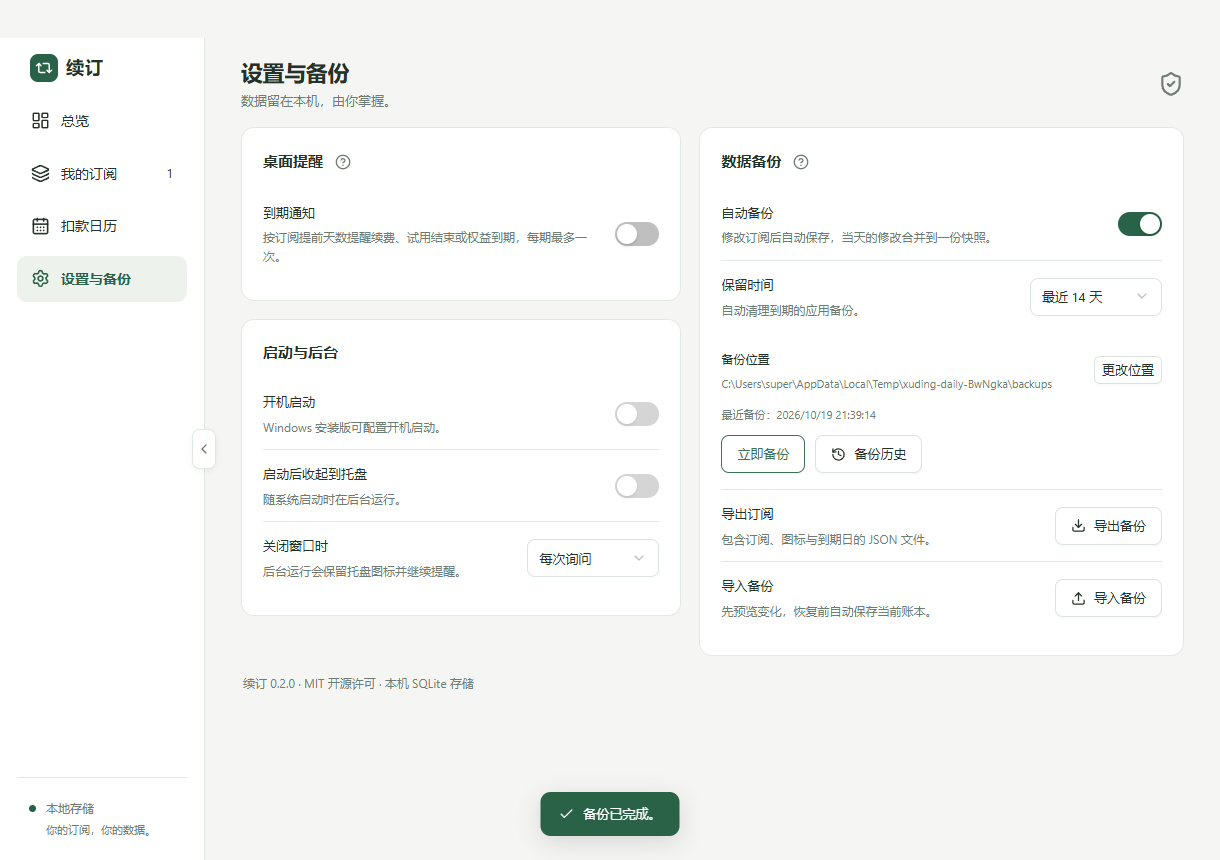
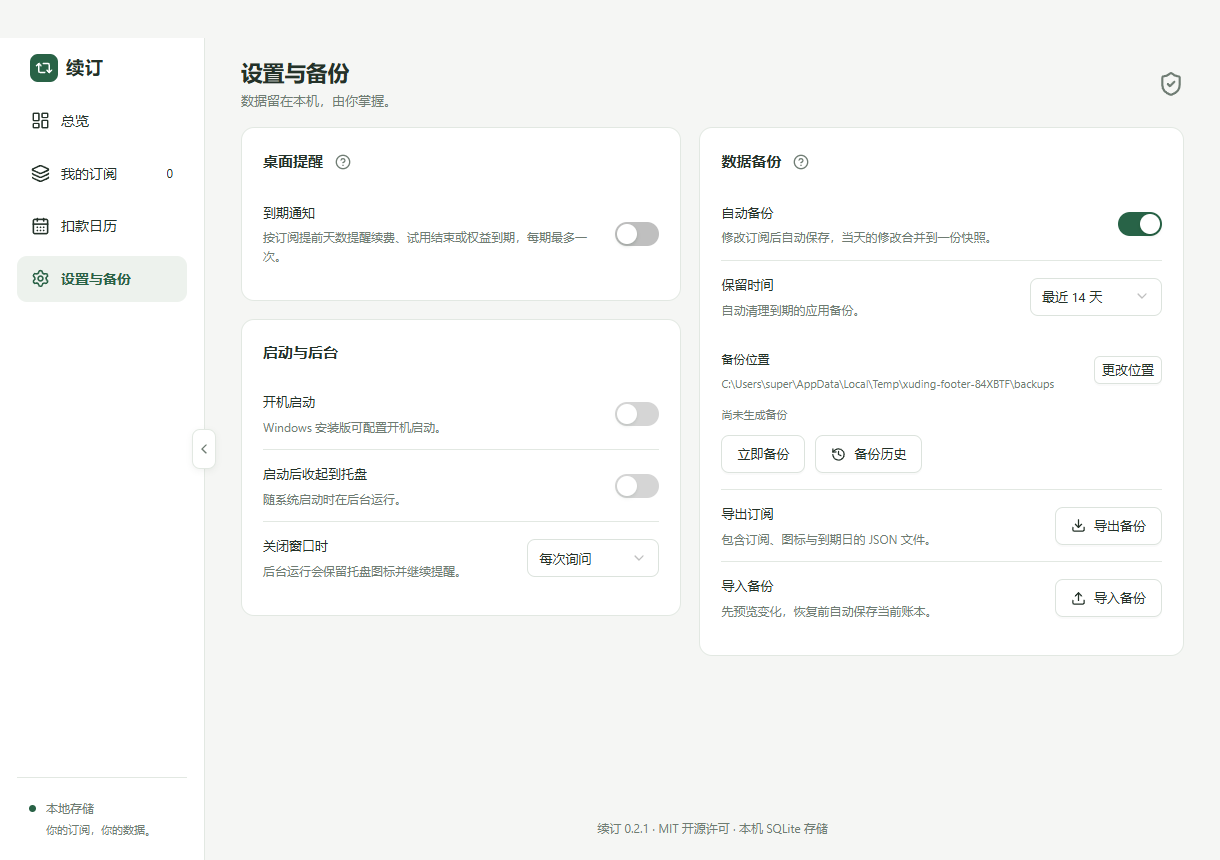
Center settings information at the bottom of the page

diff --git a/src/renderer/src/SettingsPage.tsx b/src/renderer/src/SettingsPage.tsx
@@ -99,7 +99,7 @@ export function SettingsPage({
     />
   )
   return (
-    <>
+    <section className="settings-page">
       <header className="page-head">
         <div>
           <h1>设置与备份</h1>
@@ -294,9 +294,9 @@ export function SettingsPage({
           </div>
         </Region>
       </div>
-      <div className="settings-about">
+      <footer className="settings-about">
         续订 {snapshot.version} · MIT 开源许可 · 本机 SQLite 存储
-      </div>
+      </footer>
       <Drawer
         title="备份历史"
         closable={{ 'aria-label': '关闭备份历史' }}
@@ -393,6 +393,6 @@ export function SettingsPage({
           </div>
         )}
       </Modal>
-    </>
+    </section>
   )
 }

diff --git a/src/renderer/src/styles.css b/src/renderer/src/styles.css
@@ -434,6 +434,17 @@ small {
   color: var(--muted);
   margin-top: 3px;
 }
+.main.settings-main {
+  display: flex;
+  flex-direction: column;
+  padding-bottom: 22px;
+}
+.settings-page {
+  display: flex;
+  flex-direction: column;
+  flex: 1;
+  min-width: 0;
+}
 .settings-grid {
   display: grid;
   grid-template-columns: minmax(0, 1fr) minmax(0, 1.1fr);
@@ -457,7 +468,10 @@ small {
 .settings-about {
   font-size: 12px;
   color: var(--muted);
-  margin: 18px 2px;
+  margin: auto 0 0;
+  padding-top: 24px;
+  text-align: center;
+  flex-shrink: 0;
 }
 .backup-location {
   display: flex;

diff --git a/src/renderer/src/App.tsx b/src/renderer/src/App.tsx
@@ -989,7 +989,7 @@ export function App() {
             </div>
           </div>
         </aside>
-        <main className="main">
+        <main className={`main${route.page === 'settings' ? ' settings-main' : ''}`}>
           {error && (
             <div role="alert" className="error-banner">
               <span>{error}</span>
